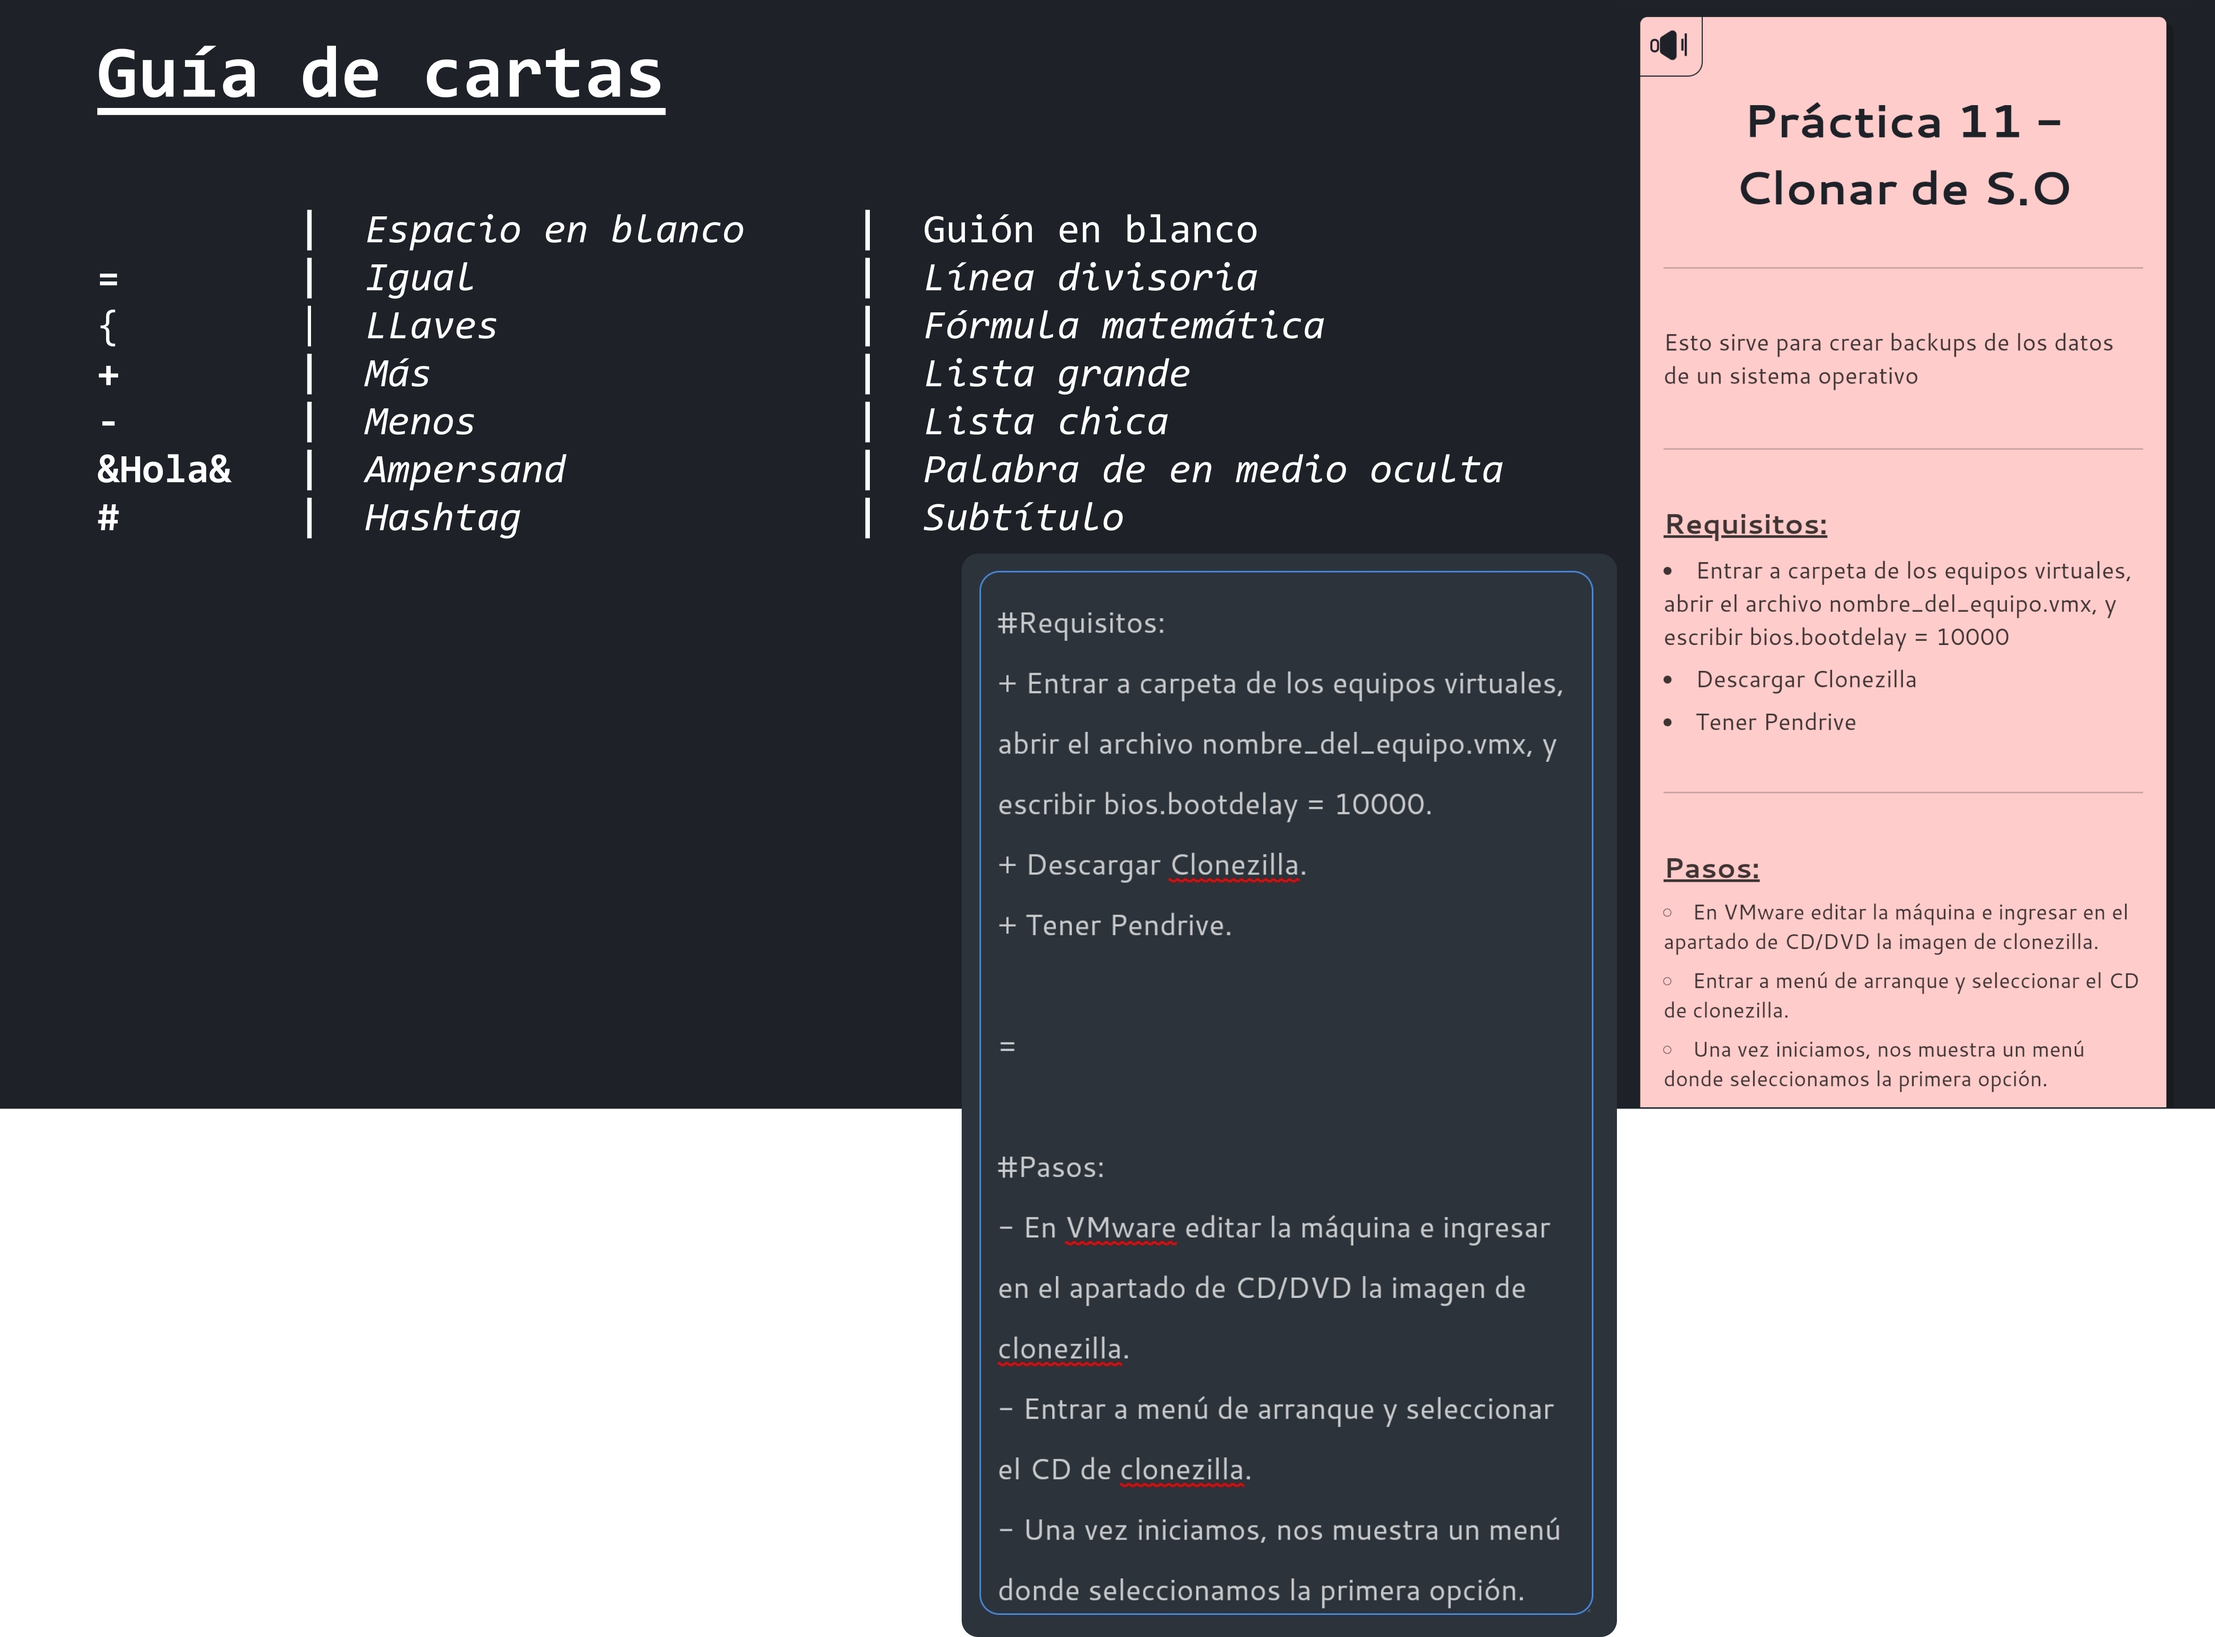
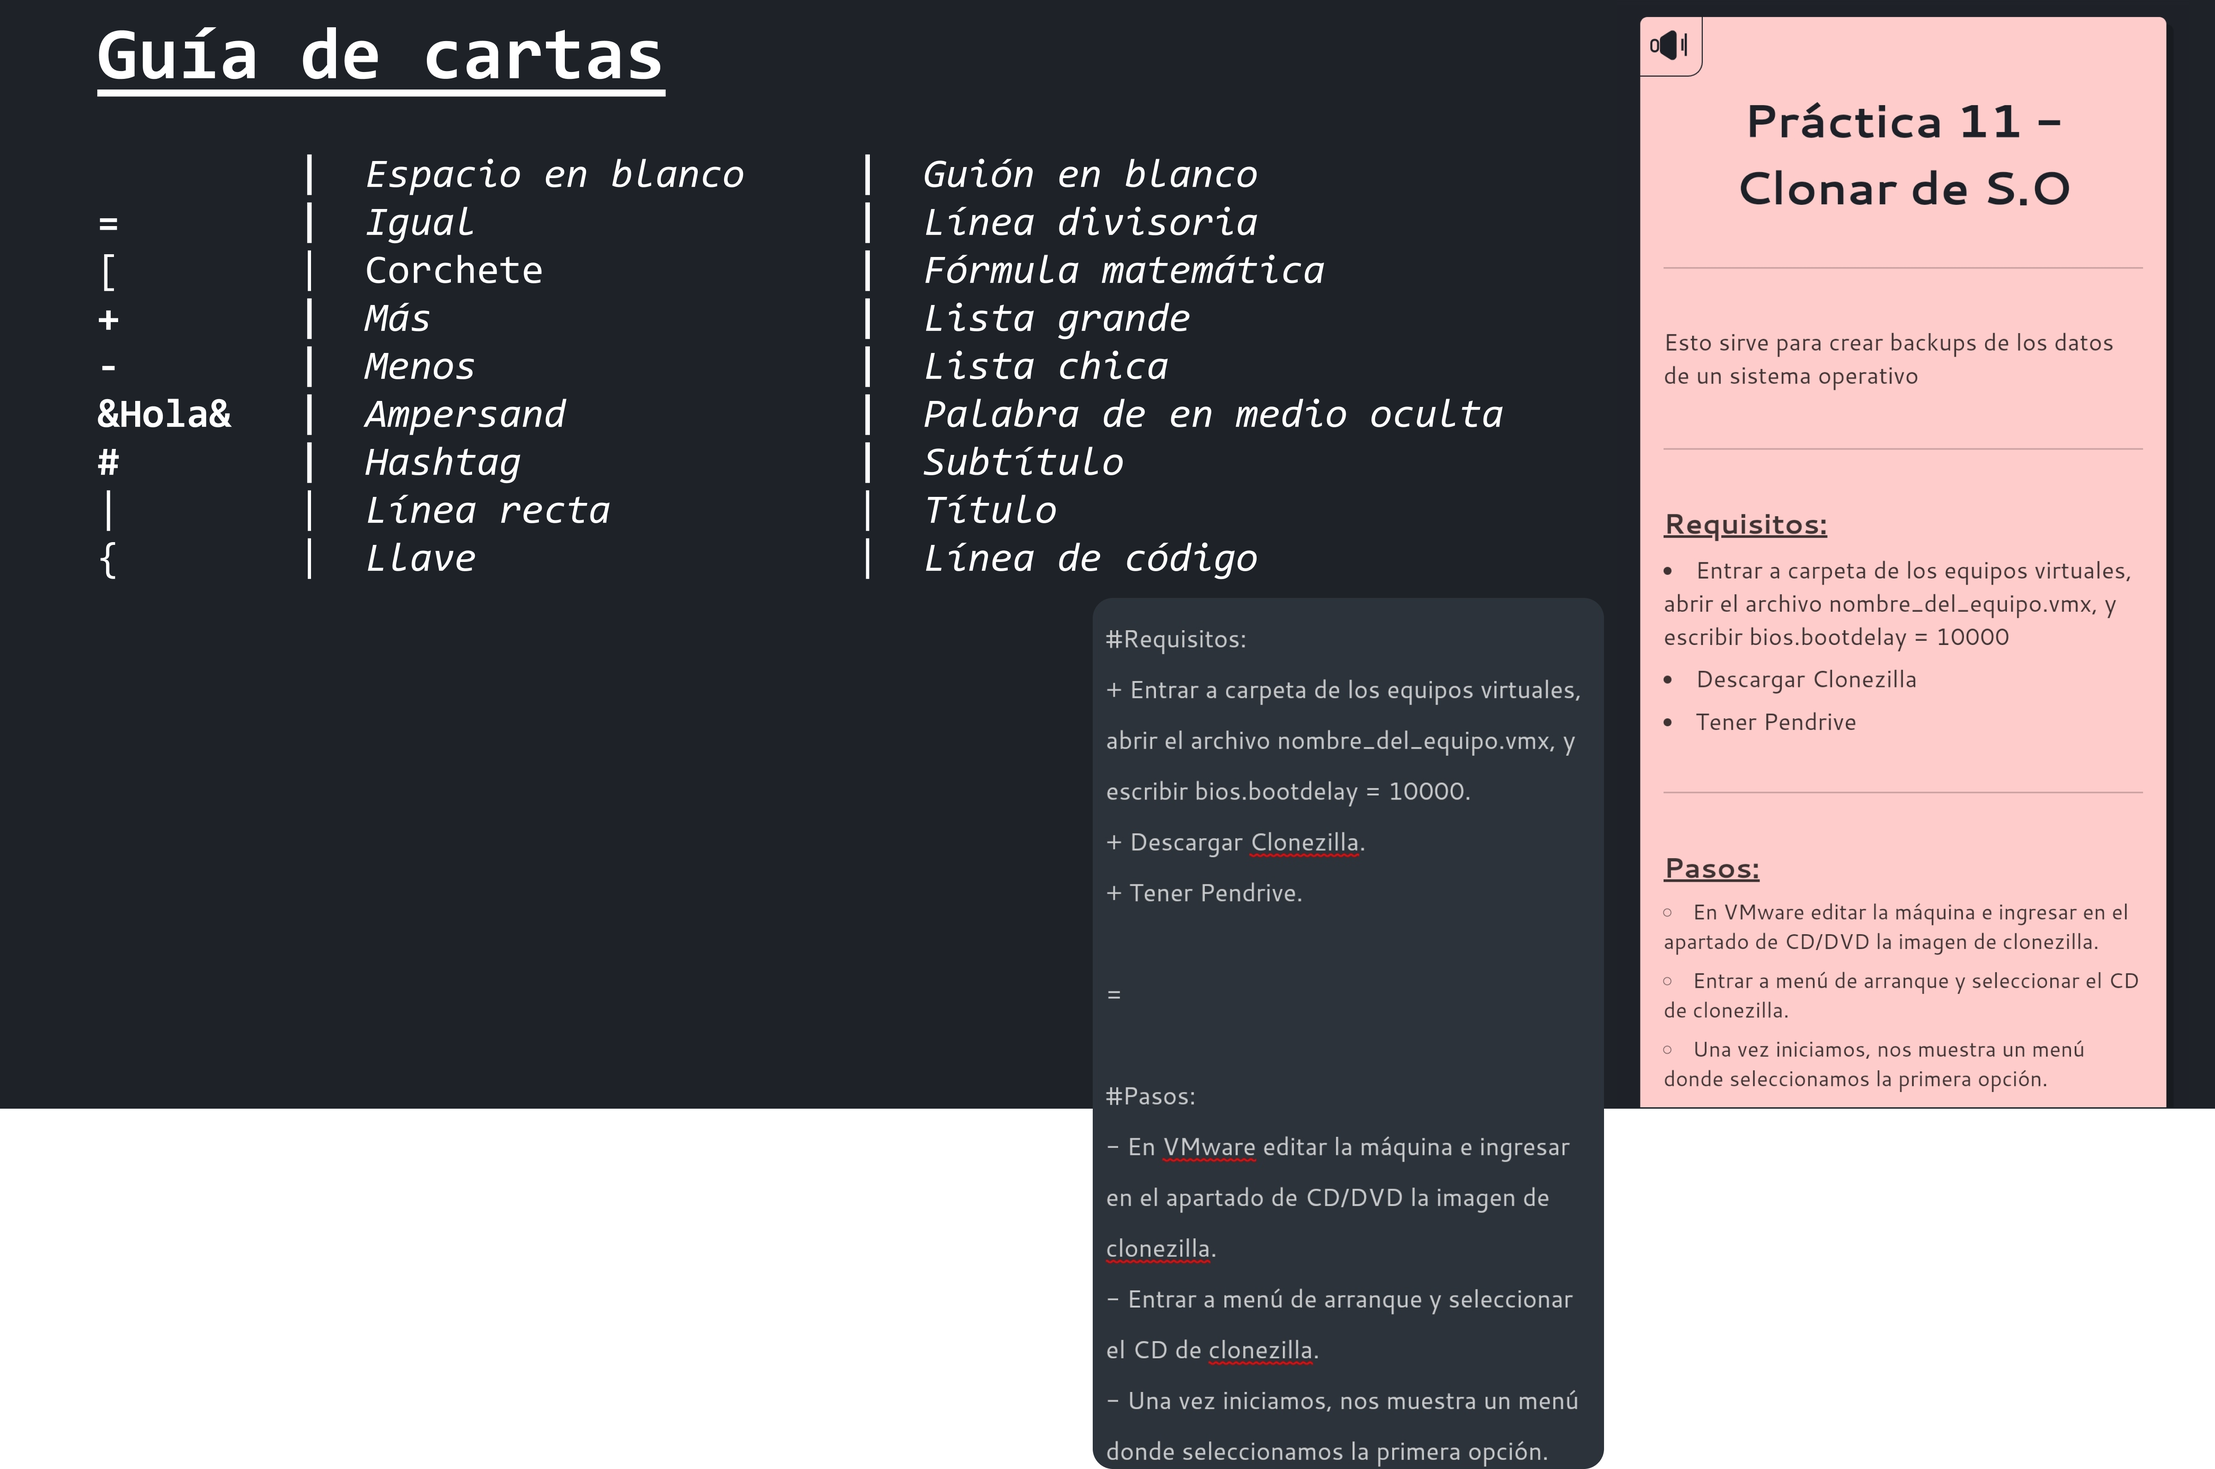
Retoques en estilos de carta y pagina de bienvenido

diff --git a/public/js/funciones.js b/public/js/funciones.js
@@ -68,10 +68,16 @@ export const traductor = (contenedor, contenido) => {
             $linea.classList.add('descripcion')
             $linea.textContent = parrafo.slice(1)
         }
-        // FÓRMULA
-        else if(parrafo.trim().split('')[0] == "{"){
+        // FORMULA
+        else if(parrafo.trim().split('')[0] == "["){
             $linea = document.createElement('div')
             $linea.classList.add('formula')
+            $linea.textContent = parrafo.slice(1)
+        }
+        // CODIGO
+        else if(parrafo.trim().split('')[0] == "{"){
+            $linea = document.createElement('div')
+            $linea.classList.add('codigo')
             $linea.textContent = parrafo.slice(1)
         } 
         // PÁRRAFO

diff --git a/public/assets/css/presentacion.css b/public/assets/css/presentacion.css
@@ -70,10 +70,6 @@ section.prueba a:hover{
     background-color: var(--blanco);
 }
 
-section.caracteristicas{
-    margin-top: 100px;
-}
-
 section.prueba{
     padding: 10px;
 }
@@ -88,7 +84,7 @@ h2.titulo-presentacion{
     text-align: center;
     font-size: 20px;
     color: var(--celeste);
-    margin: 0px 0px 30px 0px;
+    margin: 0px 0px 50px 0px;
 }
 
 section{
@@ -105,11 +101,10 @@ footer .parrafo-footer{
     color: var(--blanco);
     font-size: 12px;
     text-align: end;
-    margin-top: 30px;
 }
 
 footer .contenedor-redes{
-    margin-top: 20px;
+    margin: 40px 0px;
     display: flex;
     justify-content: space-evenly;
 }

diff --git a/public/assets/css/carta.css b/public/assets/css/carta.css
@@ -91,6 +91,13 @@ a.link-carta-vista{
     height: 20px;
 }
 
+.codigo{
+    background: var(--azul-claro);
+    color: var(--gris-claro);
+    padding: .2rem .5rem;
+    font-size: .8rem;
+}
+
 .formula{
     text-align: center;
     margin: .5rem 0rem;
